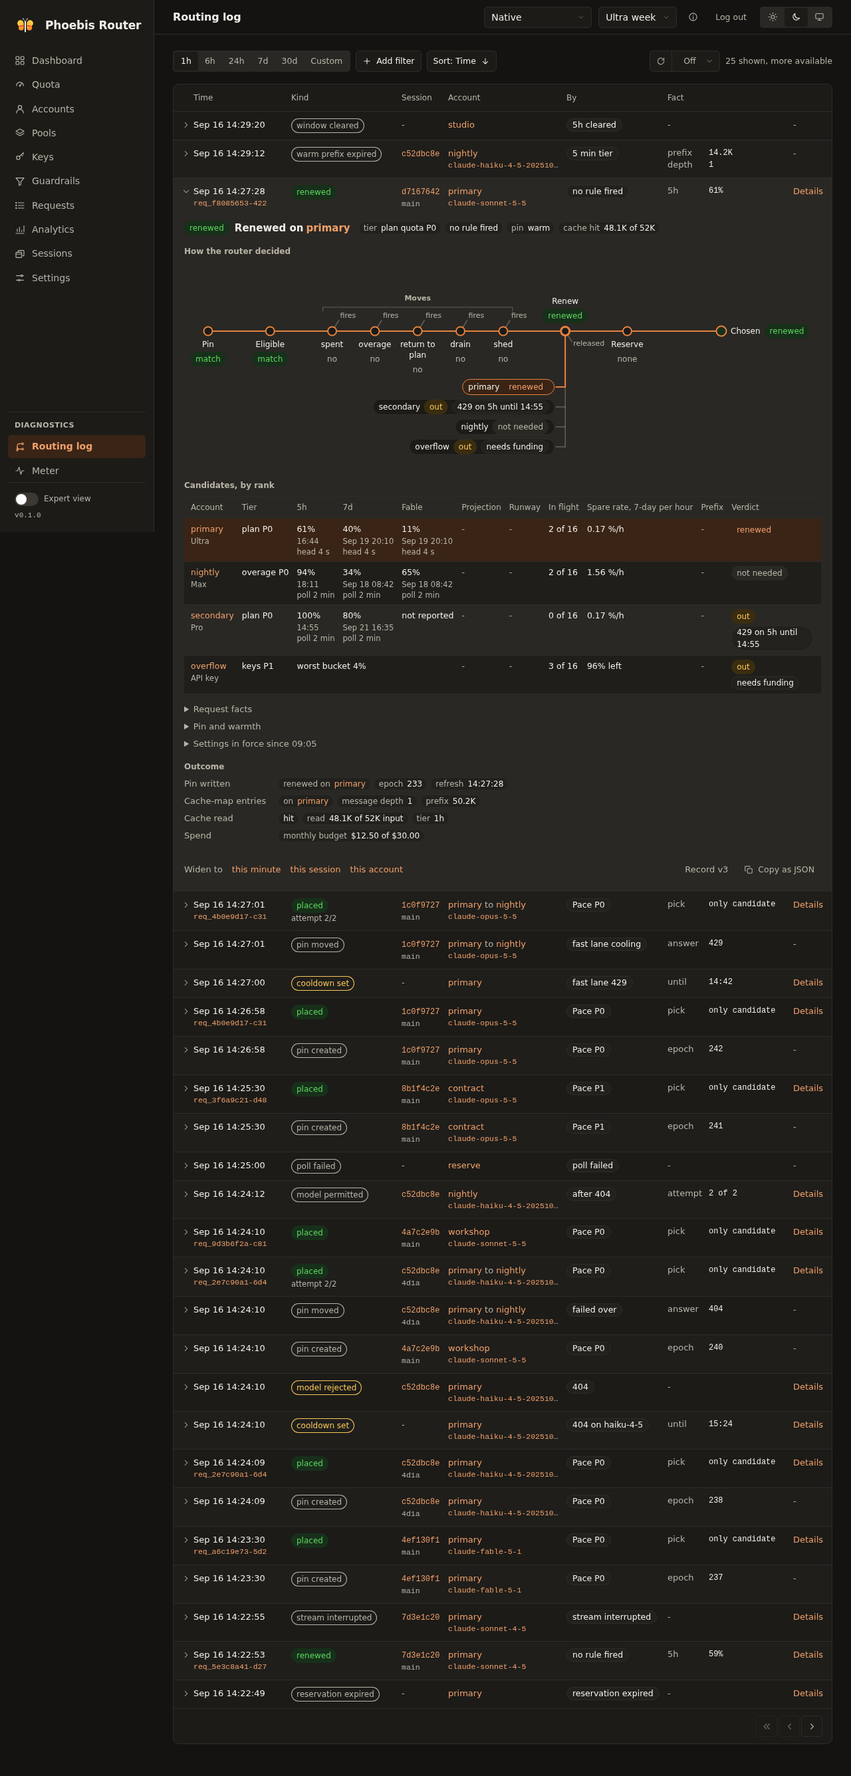
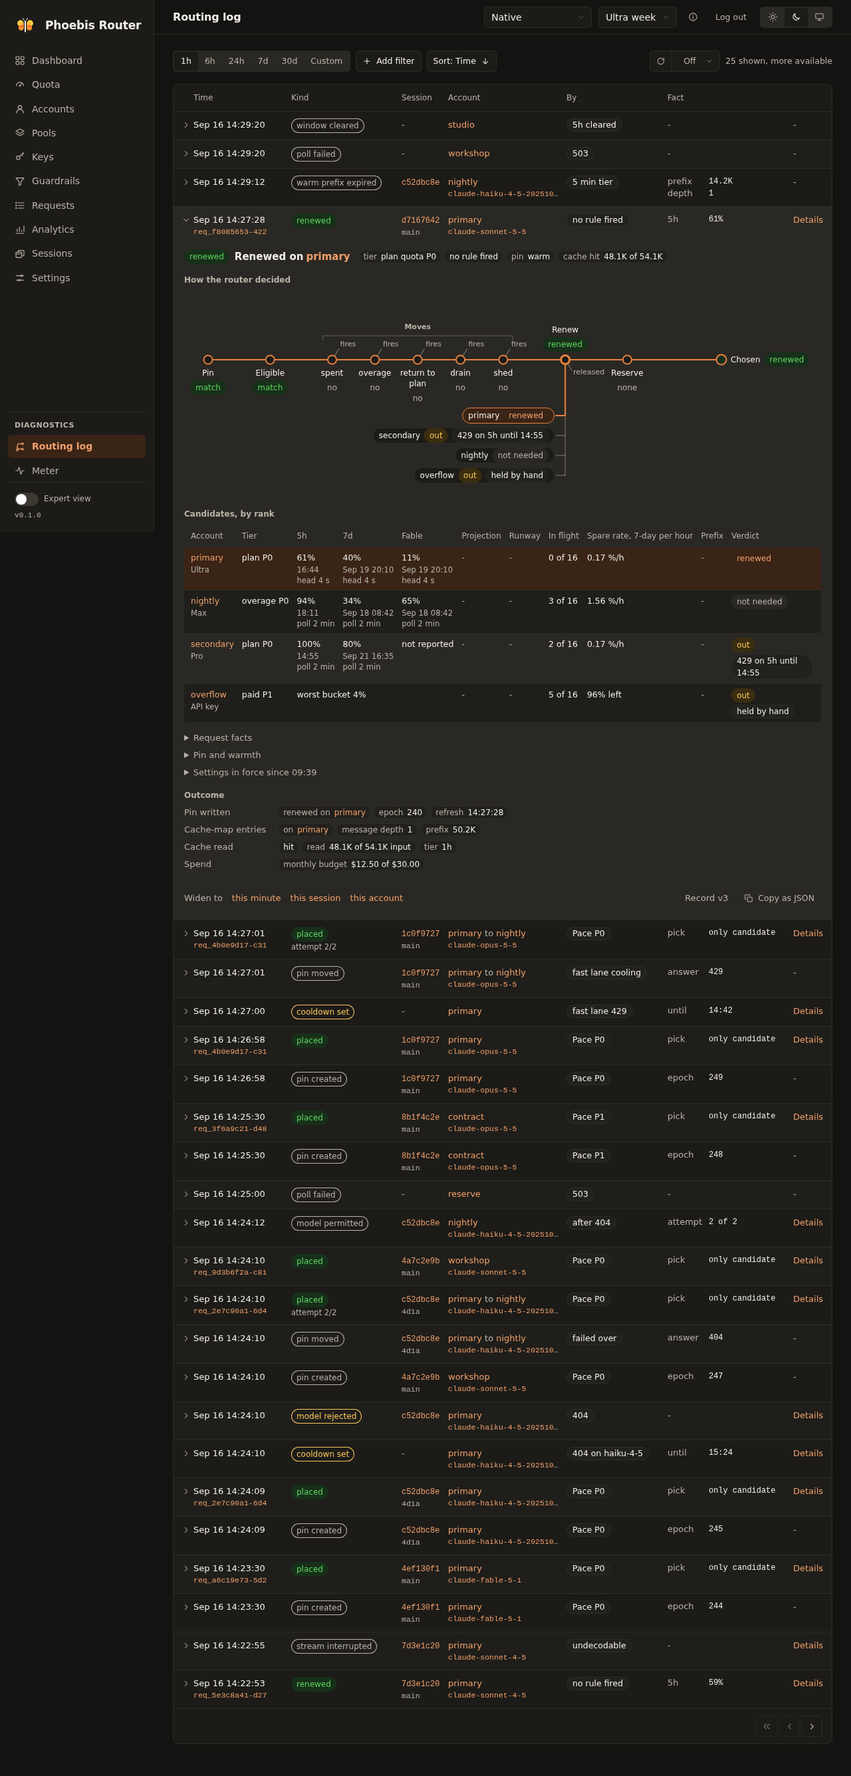
Walk the one ladder on each landing in the mock's records
Every landing in the mock that is no move's destination set walks the
router's ladder of five rungs and names its rung in the `ladder` fact
after the no-fit count: the fitting members, else the rewrite-only ones
at the longest runway, else the least-bad ones that hold allowance at
the longest runway to 1.0, else the winding-down ones that hold
allowance, else the whole set. A walk over no member names no rung.

The fit reads the runway to 1.0 on every window it projects, and a
least-bad landing row states that runway and its window. A move's gate
keeps the runway to the ceiling. Allowance reads the model's own week
and both shared windows through one helper that the move rules share.
A drawn placement's rivals read full wherever the ladder would take
them first.

The five story placements on secondary from 14:00:10 to 14:01:45 read
primary and nightly at their in-flight cap. Both land the rewrite under
the ceiling, so with a free slot either would take those sessions ahead
of secondary.

Pinned figures that move: the No fit badge of the fresh placement
req_ef099b34-453 reads 1 out and the drawn placement beside main
req_a0f5c94d-8f0 reads 0 out, where both fell through. The cohort hold
reads no_fit 1 on the rewrite-only rung. The direct partition reads
gain the ladder fact, and two winding-down members read ending. In a
new direct read, two least-bad members with a spent window read every.

The routing log screenshots are taken again. The browser pass draws
[…]

diff --git a/web/src/mock/routingLog.ts b/web/src/mock/routingLog.ts
@@ -659,12 +659,43 @@ const RESERVATION_ROUND = { accountId: 'primary', at: clock(11, 13, 40) };
 /** The story's five rounds, which a later decision on the account reads as within the dwell. */
 const ROUNDS = [SHED_ROUND, NO_RUNWAY_ROUND, STRETCH_ROUND, FABLE_WEEK_ROUND, RESERVATION_ROUND];
 
-/** What the gate read of one candidate for a pin: the verdict, the runway and its window, and the fit table's row. */
+/**
+ * What the gate read of one candidate for a pin: the verdict, the runway to the ceiling and its window, the runway to
+ * 1.0 and its window, which the ladder's third rung ranks a `least_bad` member by, and the fit table's row.
+ */
 interface FitRead {
   binding: string | null;
   facts: WalkFact[];
   runwayMs: number | null;
   verdict: string;
+  wallBinding: string | null;
+  wallRunwayMs: number | null;
+}
+
+/** A bounded runway on a window, and whether it ends short of the window's horizon. */
+interface Runway {
+  runway: number;
+  short: boolean;
+  window: string | null;
+}
+
+/** One plan window's reading for a request with `rewrite` and `burn` on it: whether the rewrite lands under the
+ *  window's ceiling, the runway to the ceiling, the runway to 1.0, and whether the window holds no allowance. */
+interface WindowFit {
+  lands: boolean;
+  runwayMs: number | null;
+  spent: boolean;
+  wallRunwayMs: number | null;
+}
+
+/**
+ * Each runway is the time until the prediction with the rewrite, rising at `burn`, reaches its line: zero where it
+ * stands there already and unbounded with no burn, as the router's `time_to` reads it.
+ */
+function windowFitOf(reading: { reserved: number | null; utilization: number }, ceiling: number, rewrite: number, burn: number): WindowFit {
+  const predicted = reading.utilization + (reading.reserved ?? 0);
+  const runwayTo = (line: number) => (predicted + rewrite >= line ? 0 : burn <= 0 ? null : Math.round(((line - predicted - rewrite) / burn) * HOUR));
+  return { lands: predicted + rewrite < ceiling, runwayMs: runwayTo(ceiling), spent: reading.utilization >= 1, wallRunwayMs: runwayTo(1) };
 }
 
 const runwayOf = (c: Pick<RecordCandidate, 'runwayMs'>) => c.runwayMs ?? Number.POSITIVE_INFINITY;
@@ -689,23 +720,28 @@ export function runwayTiesOf<T extends Pick<RecordCandidate, 'runwayMs'>>(ties: 
  * pin's, reaches the window's own ceiling, zero where the rewrite alone does and unbounded with no burn. `fits` reaches
  * the horizon on every window, `rewrite_only` lands the rewrite but falls short on one, and `least_bad` is the rest, as
  * is a window a move cannot read. An account inside the pool's wind-down before its end reads `ending`, and an API-key
- * account fits while its worst bucket has room.
+ * account fits while its worst bucket has room. The runway to 1.0 reads every window with a projection, whether the
+ * rewrite lands there or not, and both runways bind on the shortest window short of its horizon, else the shortest of
+ * all. An API key whose full bucket refuses the request at this instant reads zero to 1.0 on no window.
  */
 function fitOf(c: RecordCandidate, at: number, pool: Pick<PoolSeed, 'fiveHourCeiling' | 'weeklyCeiling' | 'windDownMinutes'>, model: string, tokens: number, pinBurn: Record<string, number>, move: boolean): FitRead {
-  const read = (facts: WalkFact[], verdict: string, runwayMs: number | null = null, binding: string | null = null): FitRead => ({
-    binding,
+  const read = (facts: WalkFact[], verdict: string, runway: Runway | undefined = undefined, wall: Runway | undefined = undefined): FitRead => ({
+    binding: runway?.window ?? null,
     facts: [...facts, fact('verdict', verdict)].map((f) => ({ ...f, accountId: c.accountId })),
-    runwayMs,
+    runwayMs: runway?.runway ?? null,
     verdict,
+    wallBinding: wall?.window ?? null,
+    wallRunwayMs: wall?.runway ?? null,
   });
   const endsAt = c.term?.endsAt ? Date.parse(c.term.endsAt) : null;
   if (endsAt !== null && endsAt - at <= pool.windDownMinutes * MINUTE) return read([fact('end', endsAt, 'time')], 'ending');
-  if (c.kind === 'api_key') return read([], (c.windows.worst_bucket?.utilization ?? 0) < 1 ? 'fits' : 'least_bad');
+  if (c.kind === 'api_key') return (c.windows.worst_bucket?.utilization ?? 0) < 1 ? read([], 'fits') : read([], 'least_bad', undefined, { runway: 0, short: false, window: null });
   const rewrite = rewriteOf(tokens, model);
   const projections: WalkFact[] = [];
   const rewrites: WalkFact[] = [];
   const reserved: WalkFact[] = [];
-  const bounded: { runway: number; short: boolean; window: string }[] = [];
+  const bounded: Runway[] = [];
+  const walls: Runway[] = [];
   let unread = false;
   let lands = true;
   let every = true;
@@ -718,23 +754,23 @@ function fitOf(c: RecordCandidate, at: number, pool: Pick<PoolSeed, 'fiveHourCei
     projections.push(fact(`projection_${w}`, x.projection, 'percent'));
     rewrites.push(fact(`rewrite_${w}`, rewrite[w] ?? 0, 'percent'));
     reserved.push(fact(`reserved_${w}`, x.reserved, 'percent'));
-    const predicted = x.utilization + (x.reserved ?? 0);
     // The 5-hour window reads the demand, the burn over the account's speed, so a slowed account's holds lend it no
     // room. It reads the burn itself where no slow-down stands.
     const burn = (w === 'five_hour' && x.demand !== null ? x.demand : (c.burn[w] ?? 0)) + (pinBurn[w] ?? 0);
-    const ceiling = ceilingOn(pool, w);
-    const landed = predicted + (rewrite[w] ?? 0) < ceiling;
-    lands = lands && landed;
-    const runway = !landed ? 0 : burn <= 0 ? null : Math.round(((ceiling - predicted - (rewrite[w] ?? 0)) / burn) * HOUR);
-    if (runway === null) continue;
-    const short = runway < Date.parse(x.horizon) - at;
+    const span = Date.parse(x.horizon) - at;
+    const window = windowFitOf(x, ceilingOn(pool, w), rewrite[w] ?? 0, burn);
+    lands = lands && window.lands;
+    if (window.wallRunwayMs !== null) walls.push({ runway: window.wallRunwayMs, short: window.wallRunwayMs < span, window: w });
+    if (window.runwayMs === null) continue;
+    const short = window.runwayMs < span;
     every = every && !short;
-    bounded.push({ runway, short, window: w });
+    bounded.push({ runway: window.runwayMs, short, window: w });
   }
-  const shortest = (list: typeof bounded) => [...list].sort((a, b) => a.runway - b.runway)[0];
-  const binding = shortest(bounded.filter((b) => b.short)) ?? shortest(bounded);
+  const shortest = (list: Runway[]) => [...list].sort((a, b) => a.runway - b.runway)[0];
+  const bindingOf = (list: Runway[]) => shortest(list.filter((b) => b.short)) ?? shortest(list);
+  const binding = bindingOf(bounded);
   const verdict = unread ? 'least_bad' : every ? 'fits' : lands ? 'rewrite_only' : 'least_bad';
-  return read([...projections, ...(binding ? [fact('runway_ms', binding.runway, 'ms')] : []), ...rewrites, ...reserved, ...(binding ? [fact('binding', binding.window)] : [])], verdict, binding?.runway ?? null, binding?.window ?? null);
+  return read([...projections, ...(binding ? [fact('runway_ms', binding.runway, 'ms')] : []), ...rewrites, ...reserved, ...(binding ? [fact('binding', binding.window)] : [])], verdict, binding, bindingOf(walls));
 }
 
 /** The newest round any pool ran on the account by `at`. */
@@ -743,6 +779,22 @@ const newestRound = (accountId: string, at: number): number | null =>
 
 /** A pin as the shed line names it in its marks and its skips. */
 const pinText = (p: { agentId: string; keyId: string; model: string; sessionId: string }) => `${p.keyId}/${p.sessionId}/${p.agentId}/${p.model}`;
+
+/**
+ * Whether a member holds allowance for a request of `model`: no plan window the model draws, its own week where it has
+ * one and both shared windows, reads 1 or more. An API key reads no plan window, so it always holds it.
+ */
+const holdsAllowance = (c: RecordCandidate, model: string) => c.kind === 'api_key' || drawnWindows(model).every((w) => (c.windows[w]?.utilization ?? 0) < 1);
+
+/** The ladder's rungs from the best: the words of a landing's `ladder` fact. */
+const LADDER = ['fits', 'rewrite_only', 'least_bad', 'ending', 'every'];
+
+/**
+ * The rung a member's verdict stands on, a member read no fit for among the fitting ones. A `least_bad` or winding-down
+ * member with no allowance left stands on the last rung alone.
+ */
+const rungOf = (verdict: string | null, holds: boolean): string =>
+  verdict === null || verdict === 'fits' || verdict === 'rewrite_only' ? (verdict ?? 'fits') : (verdict === 'least_bad' || verdict === 'ending') && holds ? verdict : 'every';
 
 /** A walk of the five rules: the lines, the rule that fired, its destinations after the gate and before it. */
 interface Move {
@@ -770,7 +822,7 @@ function moveOf(spec: Spec, candidates: RecordCandidate[], pool: PoolSeed, sourc
   const preferPlan = pool.overagePolicy === 'prefer_plan';
   const dwellMs = pool.returnToPlanDwellSeconds * 1_000;
   const windows = drawnWindows(r.canonicalModel);
-  const holdsAllowance = (c: RecordCandidate) => c.kind === 'api_key' || windows.every((w) => (c.windows[w]?.utilization ?? 0) < 1);
+  const holds = (c: RecordCandidate) => holdsAllowance(c, r.canonicalModel);
   const allowanceKnown = (c: RecordCandidate) => isPaidSource(accountOf(c.accountId)) || windows.every((w) => c.windows[w] !== undefined);
   const siblings = candidates.filter((c) => c.obstacle === null && c.accountId !== source?.accountId);
   const lines: WalkStep[] = [];
@@ -808,7 +860,7 @@ function moveOf(spec: Spec, candidates: RecordCandidate[], pool: PoolSeed, sourc
   // The rule fires where the gate answers a sibling it keeps holding allowance. Otherwise its line says it found
   // none, with the members the end exclusion dropped.
   const tryRule = (i: number, facts: WalkFact[], keep: (c: RecordCandidate) => boolean, fitsOnly = false): Move | null => {
-    const reached = siblings.filter((c) => keep(c) && holdsAllowance(c));
+    const reached = siblings.filter((c) => keep(c) && holds(c));
     const ending = () => reached.filter((c) => c.fit === 'ending').map((c) => c.accountId);
     if (reached.length === 0) {
       no(i, [...facts, fact('no_destination', true), fact('ending', [])]);
@@ -829,7 +881,7 @@ function moveOf(spec: Spec, candidates: RecordCandidate[], pool: PoolSeed, sourc
 
   if (fast) no(0, [fact('fast', true)]);
   else if (!pool.migrateWhenSpent) no(0, [fact('migrate_when_spent', false)]);
-  else if (!source || holdsAllowance(source)) no(0, [fact('holds_allowance', true)]);
+  else if (!source || holds(source)) no(0, [fact('holds_allowance', true)]);
   else if (spec.hold?.place === 'reset' && spec.hold.until !== undefined) {
     // A reset inside the retry bound costs less than a cold rewrite, so the request waits for it in place.
     const spent = windows.find((w) => (source.windows[w]?.utilization ?? 0) >= 1) ?? 'five_hour';
@@ -1110,23 +1162,37 @@ function tierBefore(x: [number, number, number], y: [number, number, number]): b
 
 /**
  * A drawn placement or move takes the account its request drew, so its rivals read full where the engine would have
- * picked them: where the member does not fit, every member that does, so the cap passes them over before the no-fit
+ * picked them: on a placement, every member the ladder would take ahead of it, one of a better rung or one of the same
+ * rung with a longer runway where that rung narrows to the longest, so the cap passes them over before the no-fit
  * partition, and where the strategy picks, every member of a better tier and under Pace every tier mate scoring above
- * the chosen member. A token count takes no slot, so the request generator places it on the engine's pick instead.
- * The drawn picks read so until the request generator draws them in the engine's order.
+ * the chosen member. A rung places among the members the partitions keep, so the ladder's marks stand on a placement a
+ * rung made too. A token count takes no slot, so the request generator places it on the engine's pick instead. The
+ * drawn picks read so until the request generator draws them in the engine's order.
  */
 function fillDrawnRivals(spec: Spec, candidates: RecordCandidate[], pool: PoolSeed): void {
   const winner = candidates.find((c) => c.accountId === spec.accountId);
   if (!winner || spec.request.kind === 'count_tokens') return;
   const top = pool.strategy === 'pace' ? winner.pace?.score : undefined;
   const outscores = (c: RecordCandidate) => top !== undefined && c.pace !== null && c.pace.score > top;
-  // A move's gate reads its own fits later in the walk, so only a placement's choice is held to the fresh fit here.
-  const fits = (c: RecordCandidate) => spec.kind === 'placed' && freshFitOf(spec, c, pool).verdict === 'fits';
-  const unfit = spec.kind === 'placed' && !fits(winner);
+  // A move's gate reads its own fits later in the walk, so only a placement's choice is held to the ladder here. Each
+  // member's step is its rung and the runway that rung ranks by, the one to 1.0 on the least-bad rung.
+  const stepOf = (c: RecordCandidate) => {
+    const read = freshFitOf(spec, c, pool);
+    const rung = rungOf(read.verdict, holdsAllowance(c, spec.request.canonicalModel));
+    return { index: LADDER.indexOf(rung), runway: rung === 'least_bad' ? read.wallRunwayMs : rung === 'rewrite_only' ? read.runwayMs : null };
+  };
+  const placed = spec.kind === 'placed' ? stepOf(winner) : null;
+  const longer = (x: number | null, y: number | null) => (x ?? Number.POSITIVE_INFINITY) > (y ?? Number.POSITIVE_INFINITY);
+  const ahead = (c: RecordCandidate) => {
+    if (placed === null) return false;
+    const rival = stepOf(c);
+    const narrows = LADDER[placed.index] === 'rewrite_only' || LADDER[placed.index] === 'least_bad';
+    return rival.index < placed.index || (rival.index === placed.index && narrows && longer(rival.runway, placed.runway));
+  };
   for (const c of candidates) {
     if (c === winner || c.obstacle !== null || c.accountId === (spec.from ?? spec.replaced?.accountId)) continue;
     const picked = !spec.rung && (tierBefore(c.tier, winner.tier) || (tierKey(c.tier) === tierKey(winner.tier) && outscores(c)));
-    if (picked || (unfit && fits(c))) c.inFlight = c.inFlightCap;
+    if (picked || ahead(c)) c.inFlight = c.inFlightCap;
   }
 }
 
@@ -1149,9 +1215,11 @@ function readPlacementFits(spec: Spec, candidates: RecordCandidate[], pool: Pool
   const free = left.filter((c) => r.kind === 'count_tokens' || c.inFlight < c.inFlightCap);
   for (const c of free.length > 0 ? free : left) {
     const read = freshFitOf(spec, c, pool);
+    // A `least_bad` row states the runway to 1.0, the one its rung ranks by.
+    const wall = read.verdict === 'least_bad';
     c.fit = read.verdict;
-    c.runwayMs = read.runwayMs;
-    c.binding = read.binding;
+    c.runwayMs = wall ? read.wallRunwayMs : read.runwayMs;
+    c.binding = wall ? read.wallBinding : read.binding;
   }
 }
 
@@ -1169,10 +1237,10 @@ const fundedBy = (pool: PoolSeed, credits: RecordCandidate['credits']) => pool.o
 const keepsSpent = (c: RecordCandidate, pool: PoolSeed, r: RequestLog) => !r.canonicalModel.includes('fable') || !spentForFable((w) => c.windows[w]?.utilization) || fundedBy(pool, c.credits);
 
 /**
- * The four partitions' facts in the engine's order, with a failover's ladder after the no-fit count, and the members
- * left after them, which the step's verdict reads.
+ * The four partitions' facts in the engine's order, with the ladder's rung after the no-fit count on every landing that
+ * reaches the fit with a member, and the members left after them, which the step's verdict reads.
  */
-function narrowed(set: RecordCandidate[], pool: PoolSeed, r: RequestLog, moving: boolean, failover: boolean): { facts: WalkFact[]; left: RecordCandidate[] } {
+function narrowed(set: RecordCandidate[], pool: PoolSeed, r: RequestLog, moving: boolean): { facts: WalkFact[]; left: RecordCandidate[] } {
   const facts: WalkFact[] = [];
   let left = set;
   const narrow = (key: string, keep: (c: RecordCandidate) => boolean) => {
@@ -1194,17 +1262,20 @@ function narrowed(set: RecordCandidate[], pool: PoolSeed, r: RequestLog, moving:
   if (underCap.length === 0 && left.length > 0) facts.push(fact('at_cap', 'held'));
   else narrow('at_cap', (c) => underCap.includes(c));
   // A move's destinations are the set its gate ordered, read with the moving pin already, so they stay as it left
-  // them. A member the partition read no fit for counts as fitting.
-  const fits = (c: RecordCandidate) => moving || c.fit === null || c.fit === 'fits';
-  if (failover && !moving) {
-    // A failed-over session has to land, so the partition walks the ladder: the fitting members, else the rewrite-only
-    // ones at the longest runway, else every member not ending, else none, which falls through to the whole set.
-    const rewriteOnly = longestOf(left.filter((c) => c.fit === 'rewrite_only'));
-    const leastBad = left.filter((c) => c.fit !== 'ending');
-    const [rung, kept] = left.some(fits) ? ['fits', left.filter(fits)] : rewriteOnly.length > 0 ? ['rewrite_only', rewriteOnly] : leastBad.length > 0 ? ['least_bad', leastBad] : ['every', []];
+  // them. Every other landing walks the ladder: the fitting members, else the rewrite-only ones at the longest runway,
+  // else the least-bad ones holding allowance at the longest runway to 1.0, which their rows state, else the ones
+  // inside their wind-down holding allowance, else none, which falls through to the whole set. A walk over no member
+  // takes no rung.
+  if (moving) narrow('no_fit', () => true);
+  else {
+    const reached = left.length > 0;
+    const rungs = new Map(left.map((c) => [c, rungOf(c.fit, holdsAllowance(c, r.canonicalModel))]));
+    const rung = LADDER.find((x) => [...rungs.values()].includes(x)) ?? 'every';
+    const onRung = left.filter((c) => rungs.get(c) === rung);
+    const kept = rung === 'every' ? [] : rung === 'rewrite_only' || rung === 'least_bad' ? longestOf(onRung) : onRung;
     narrow('no_fit', (c) => kept.includes(c));
-    facts.push(fact('ladder', rung));
-  } else narrow('no_fit', fits);
+    if (reached) facts.push(fact('ladder', rung));
+  }
   narrow('winding_down', (c) => !c.term?.windingDown);
   return { facts, left };
 }
@@ -1214,10 +1285,10 @@ function narrowed(set: RecordCandidate[], pool: PoolSeed, r: RequestLog, moving:
  * the rest. A spent member drops even when none is left. Any other partition that would empty a non-empty set keeps it
  * whole and reads `fell_through` (`held` for the cap, as the engine words it), and the spent partition reads `off`
  * for a model with no week of its own. `moving` is a move's destination set, which the no-fit partition keeps whole.
- * `failover` is a failed-over request's placement, whose no-fit partition walks the ladder and names its rung.
+ * Any other set's no-fit partition walks the ladder and names its rung, unless no member reaches it.
  */
-export function partitionsOf(set: RecordCandidate[], pool: PoolSeed, r: RequestLog, moving = false, failover = false): WalkFact[] {
-  return narrowed(set, pool, r, moving, failover).facts;
+export function partitionsOf(set: RecordCandidate[], pool: PoolSeed, r: RequestLog, moving = false): WalkFact[] {
+  return narrowed(set, pool, r, moving).facts;
 }
 
 /** A pin as the routing state holds it while the builder walks the day in order. */
@@ -1420,7 +1491,7 @@ function placingWalkOf(spec: Spec, candidates: RecordCandidate[], pool: PoolSeed
   const placing = (spec.kind === 'placed' || spec.kind === 'moved' || spec.kind === 'held' || spec.kind === 'exhausted') && inPlaceOf(spec) === null;
   if (placing) {
     const set = candidates.filter((c) => (movedAmong ? movedAmong.includes(c.accountId) : c.obstacle === null));
-    const partitions = narrowed(set, pool, r, movedAmong !== undefined, spec.failover !== undefined);
+    const partitions = narrowed(set, pool, r, movedAmong !== undefined);
     steps.push(step('partitions', partitions.left.length > 0 ? 'match' : 'none', partitions.facts));
     // A classifier call that follows its judged turn goes ahead of the rungs and the strategy, so every station names
     // the call as its reason and the pick ranks nobody.
@@ -2094,6 +2165,9 @@ function storySpecs(): Spec[] {
   // The Overflow workspace sits at its in-flight cap through the round and the move. With a free slot an API-key
   // sibling fits with no end to its runway, the longest of all, so the shed rule would plan and move both marks there.
   const overflowFull = { overflow: 16 };
+  // Primary and nightly sit at their caps while the hour's first sessions land on secondary. Each lands its rewrite,
+  // and a free one would take a fresh session on the ladder ahead of secondary, which falls short of the ceiling.
+  const secondaryOnly = { nightly: 16, primary: 16 };
   // Nightly's last minute before its spent window resets, as the reset hold reads it.
   const spentNightly = (when: number) => oauthWindows('nightly', when, () => OLDER_FACTOR).map((w) => (w.id === '5h' ? { ...w, utilization: 1 } : w));
   // Studio's 5-hour reading where a hold reads it before any answer's head: the utilization the slow-down read.
@@ -2153,10 +2227,10 @@ function storySpecs(): Spec[] {
       round: roundOfPins(RESERVATION_PINS),
     }),
     // The hour's sessions placed on secondary before its spent edge.
-    at('req_a1f04c2e-7b3', 1, 1, t(14, 0, 10), 'placed', 'secondary'),
-    at('req_b72e9d05-c14', 1, 1, t(14, 1, 30), 'placed', 'secondary'),
-    at('req_c90d3f61-a28', 1, 1, t(14, 1, 35), 'placed', 'secondary'),
-    at('req_d4e8a7b2-916', 1, 1, t(14, 1, 40), 'placed', 'secondary'),
+    at('req_a1f04c2e-7b3', 1, 1, t(14, 0, 10), 'placed', 'secondary', { inFlight: secondaryOnly }),
+    at('req_b72e9d05-c14', 1, 1, t(14, 1, 30), 'placed', 'secondary', { inFlight: secondaryOnly }),
+    at('req_c90d3f61-a28', 1, 1, t(14, 1, 35), 'placed', 'secondary', { inFlight: secondaryOnly }),
+    at('req_d4e8a7b2-916', 1, 1, t(14, 1, 40), 'placed', 'secondary', { inFlight: secondaryOnly }),
     // A token count follows its subagent's pin without walking the rules, to secondary before its window is spent.
     at('req_3b8e51f4-0a9', 1, 1, t(14, 1, 50), 'renewed', 'secondary', { pin: live('count', 20_000, 'untouched') }),
     at('req_1d9c3e55-0b2', 1, 1, t(14, 2, 10), 'renewed', 'secondary', { pin: live('continues_pin', 120_000) }),
@@ -2293,7 +2367,7 @@ function storySpecs(): Spec[] {
     at('req_6e1f3b98-a24', 1, 1, t(14, 12, 30), 'renewed', 'primary', { pin: live('continues_pin', 46_000), round: roundOfPins(NO_RUNWAY_PINS) }),
     // A session placed on secondary before its spent edge. Its next turn finds the spent rule's one destination full,
     // so it renews on secondary, whose 429 on the spent 5-hour window fails it over to primary once a slot frees.
-    at('req_d2a8f6c1-d50', 1, 1, t(14, 1, 45), 'placed', 'secondary'),
+    at('req_d2a8f6c1-d50', 1, 1, t(14, 1, 45), 'placed', 'secondary', { inFlight: secondaryOnly }),
     at('req_b8c3e9d4-e61', 1, 1, t(14, 7, 50), 'renewed', 'secondary', { inFlight: { primary: 16 }, pin: live('continues_pin', 365_000) }),
     at('req_b8c3e9d4-e61', 2, 2, t(14, 7, 51), 'placed', 'primary', { attempted: ['secondary'], failover: 'cooldown', from: 'secondary', pin: live() }),
     // Its next turn renews the pin the landing wrote on primary, whose row carries the source the failover left.
